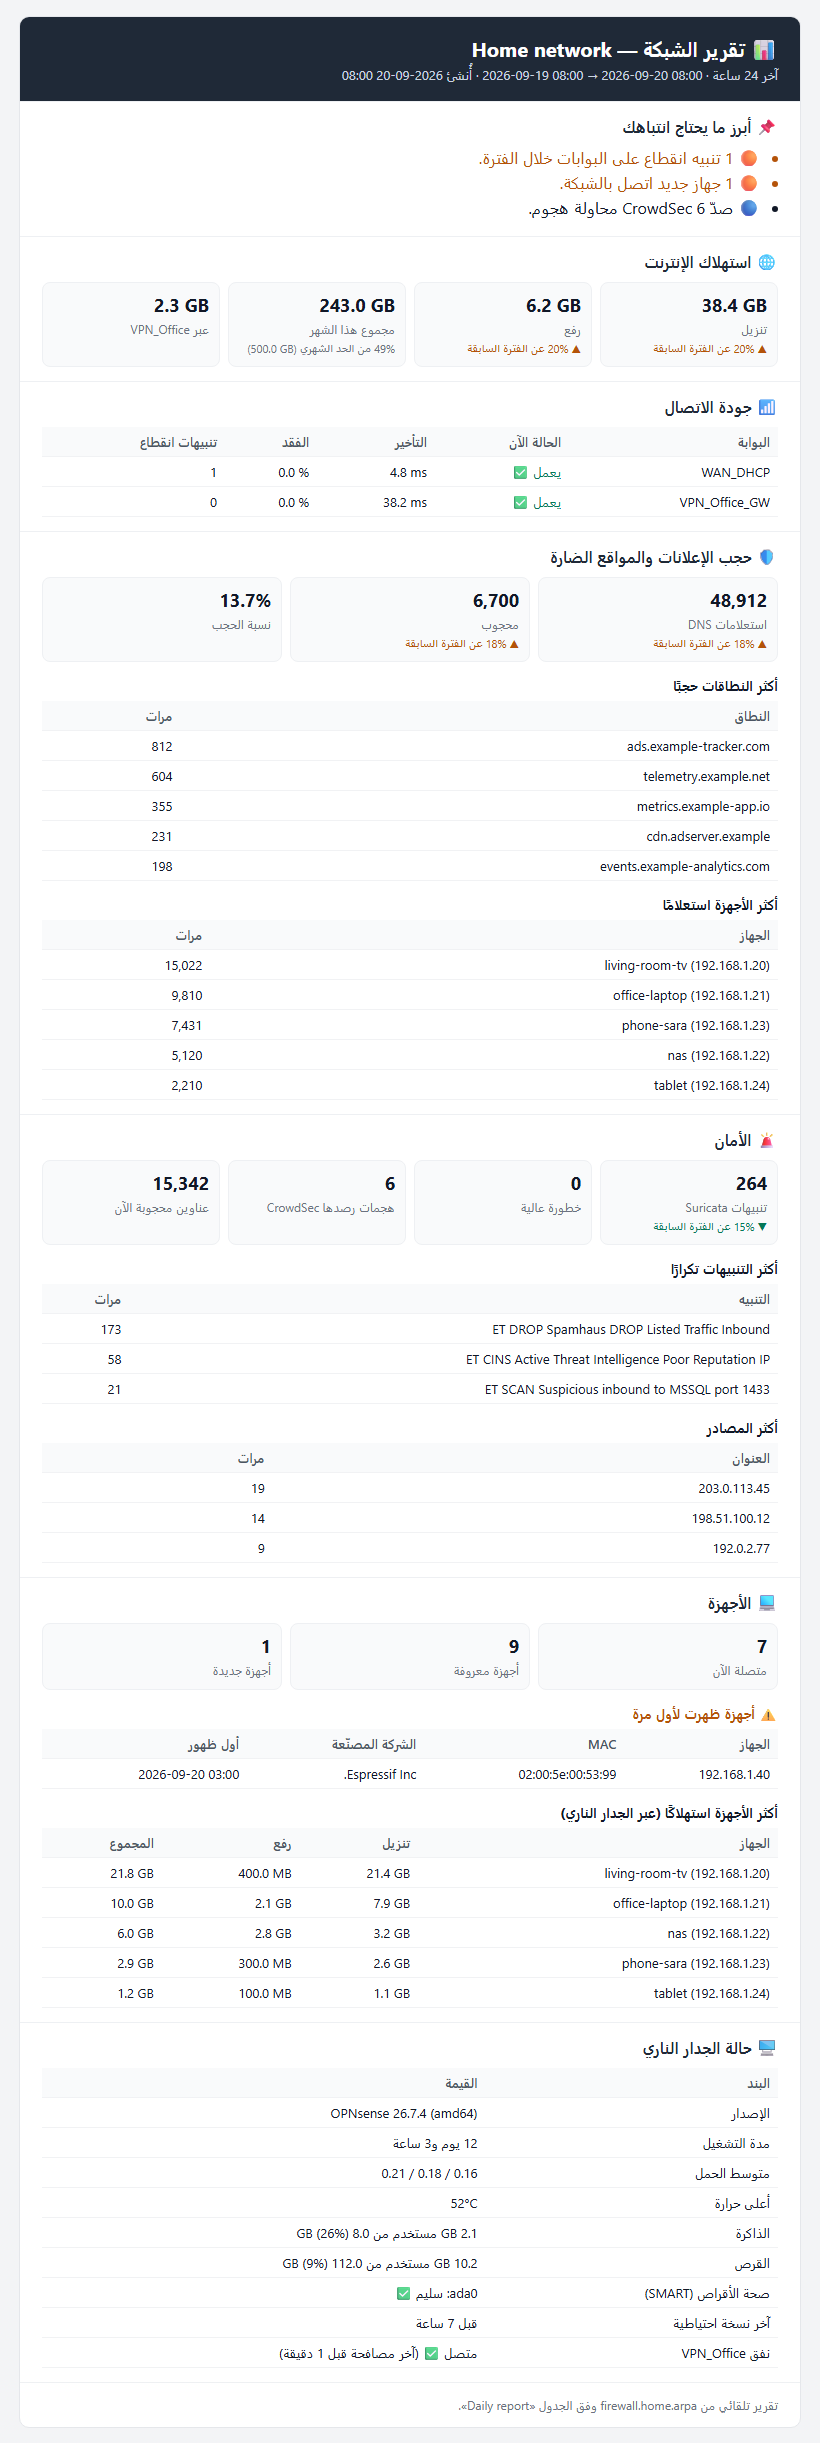
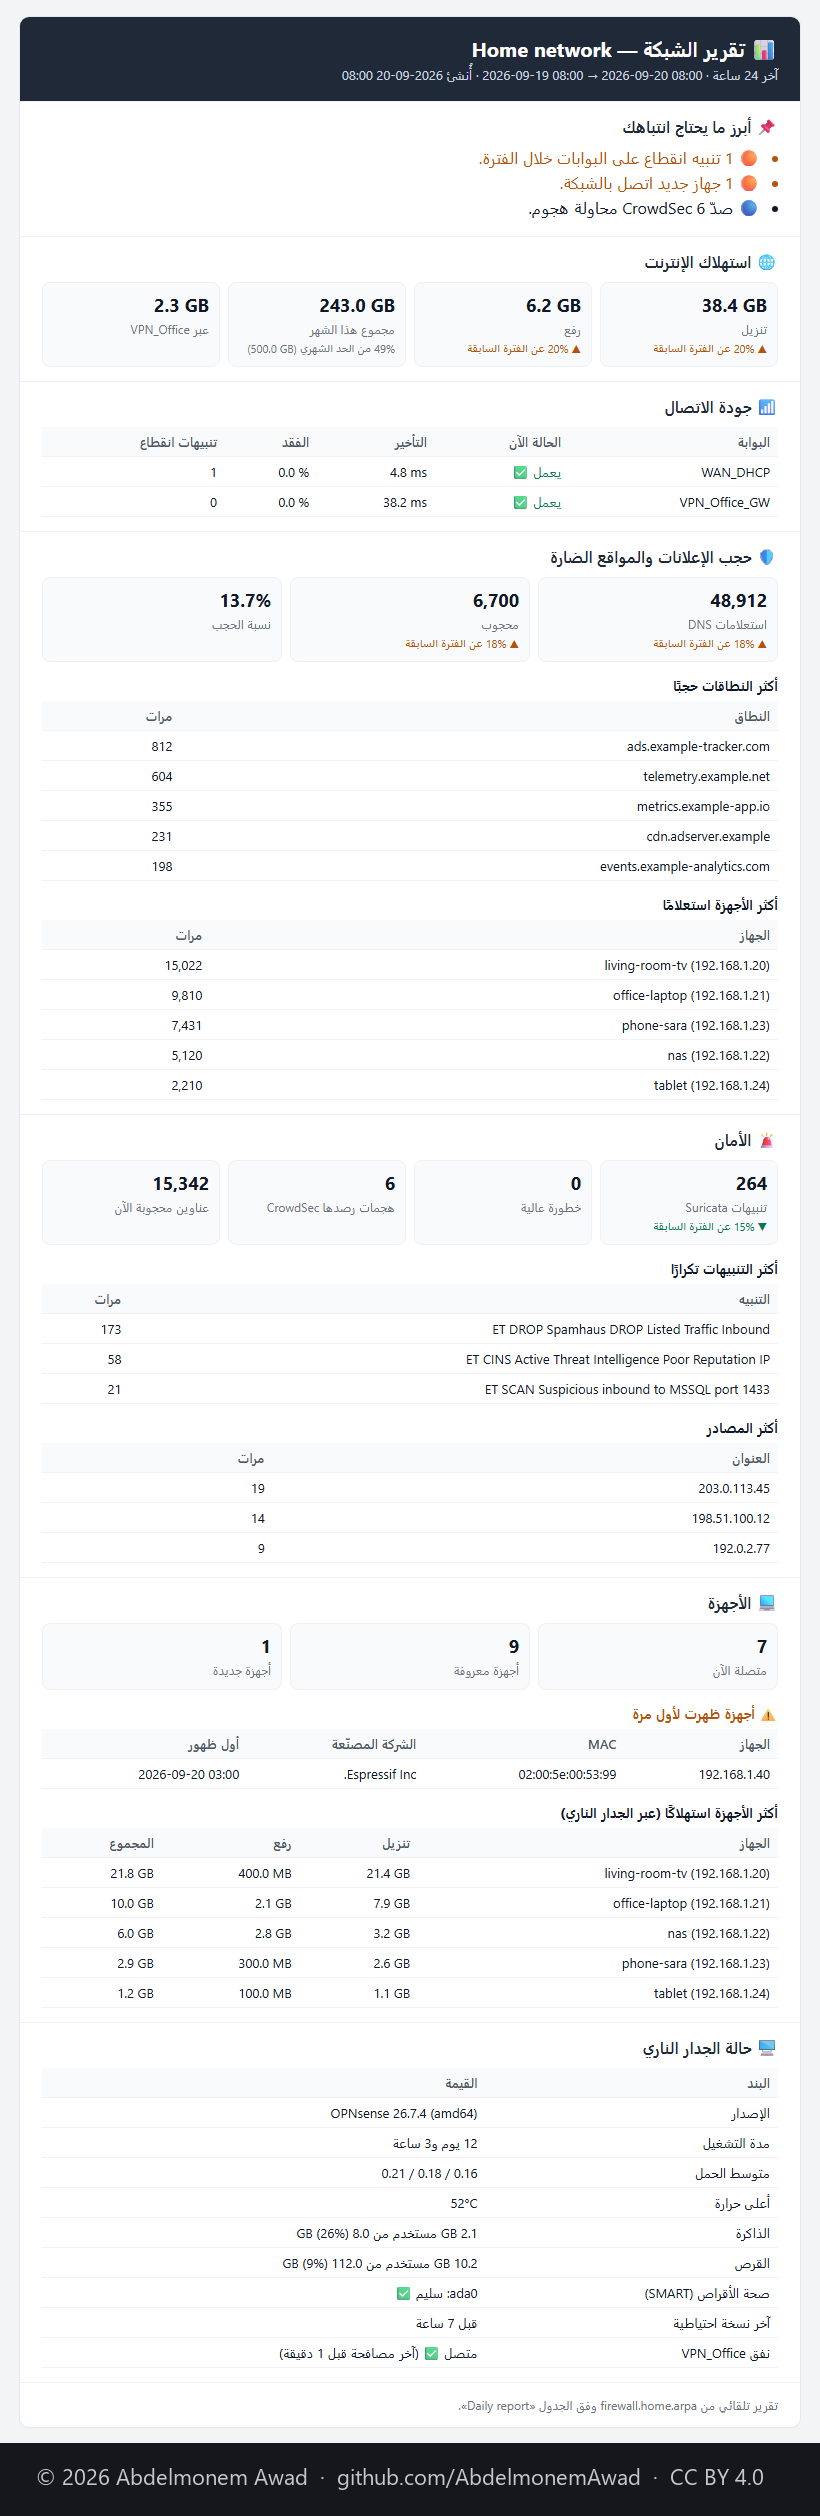
The images carry their owner and licence (CC BY 4.0) (#10)

diff --git a/README.md b/README.md
@@ -104,3 +104,5 @@ Issues أو Pull Requests.
 
 The translation is offered under the BSD 2-Clause License, the same as OPNsense. See
 [LICENSE](LICENSE).
+
+The photographs and screenshots under `docs/` are &copy; 2026 Abdelmonem Awad, under [CC BY 4.0](https://creativecommons.org/licenses/by/4.0/): use them freely, naming the author and linking here. Each carries that notice in a strip added below it.
